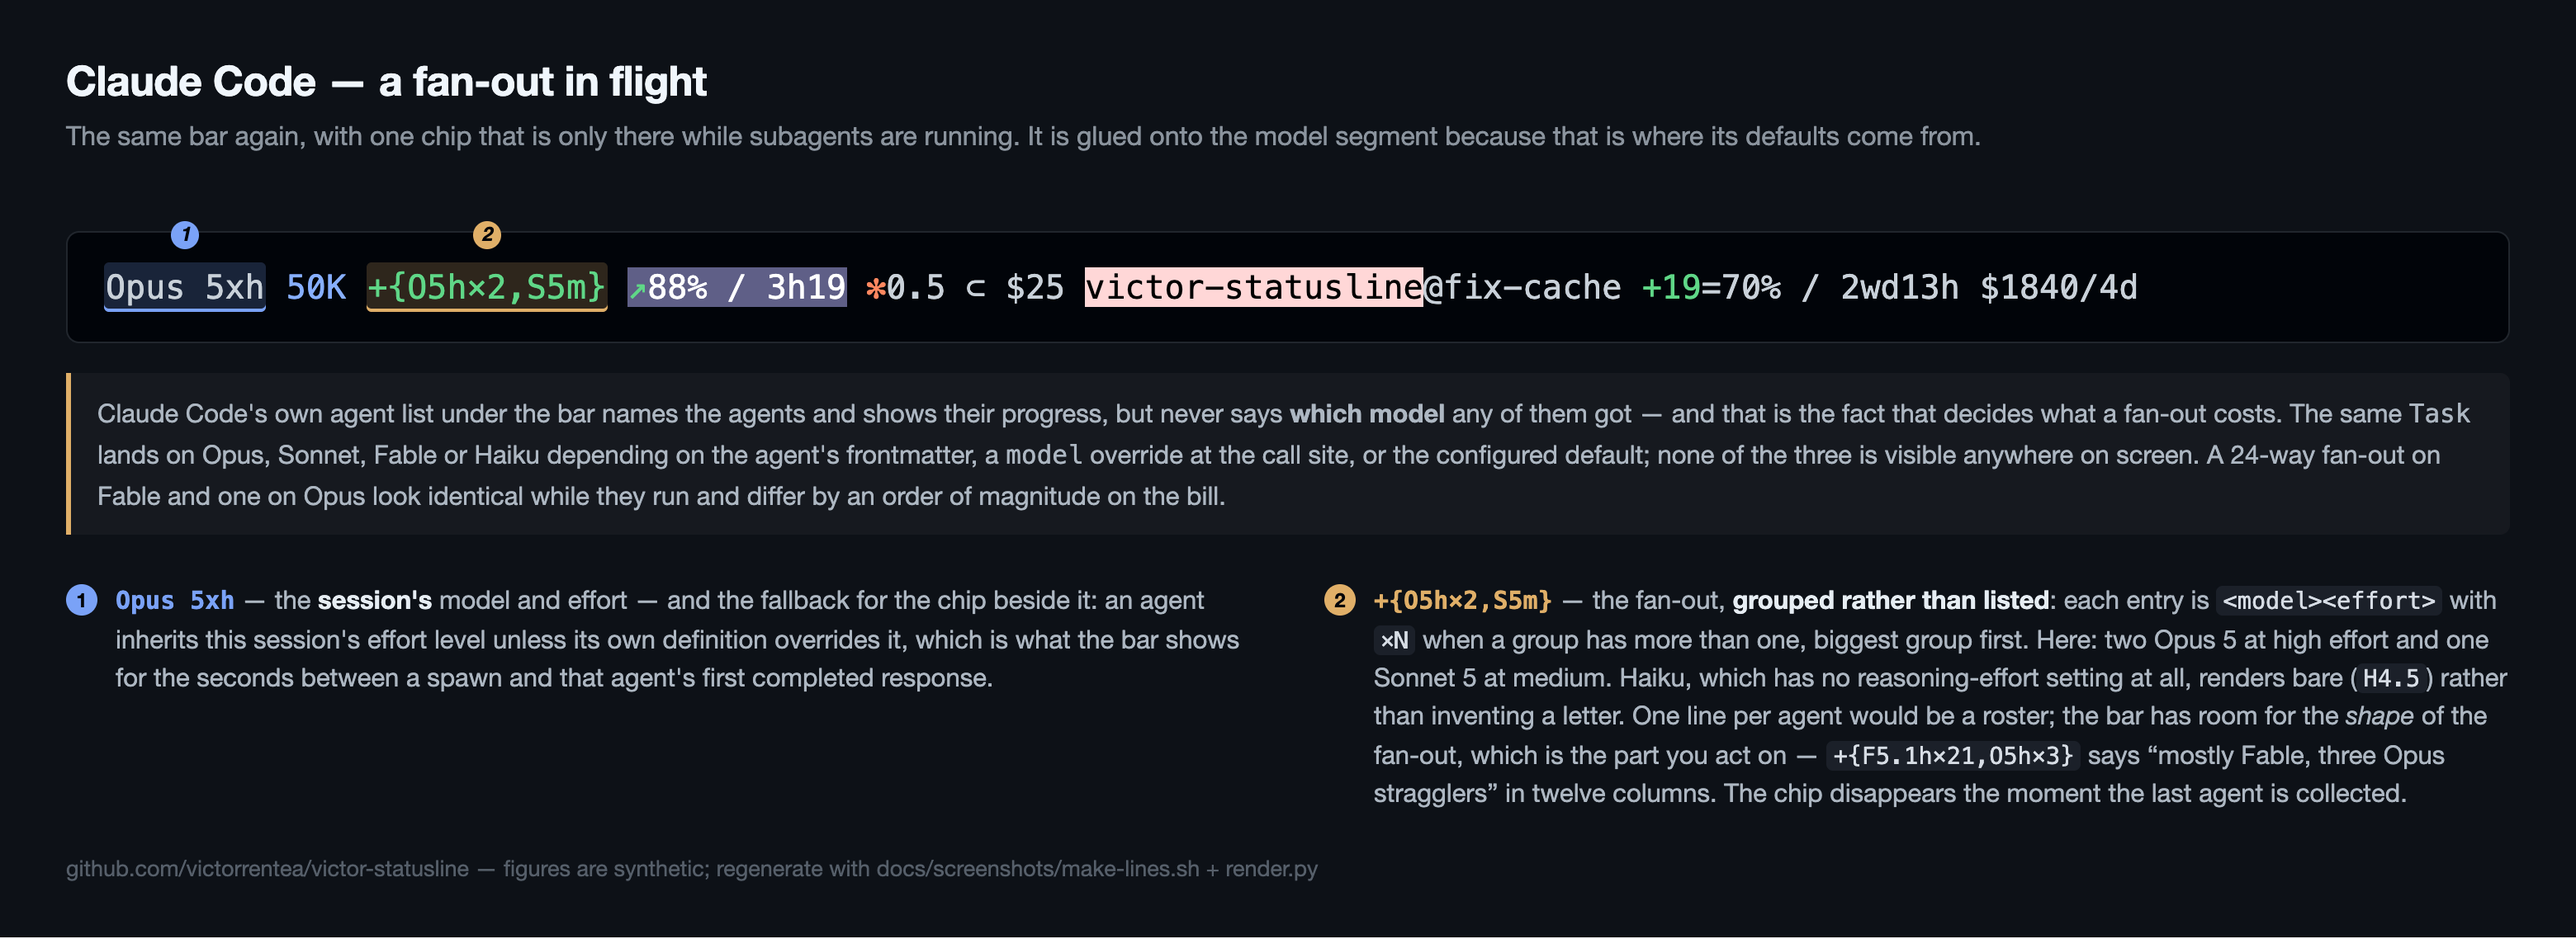
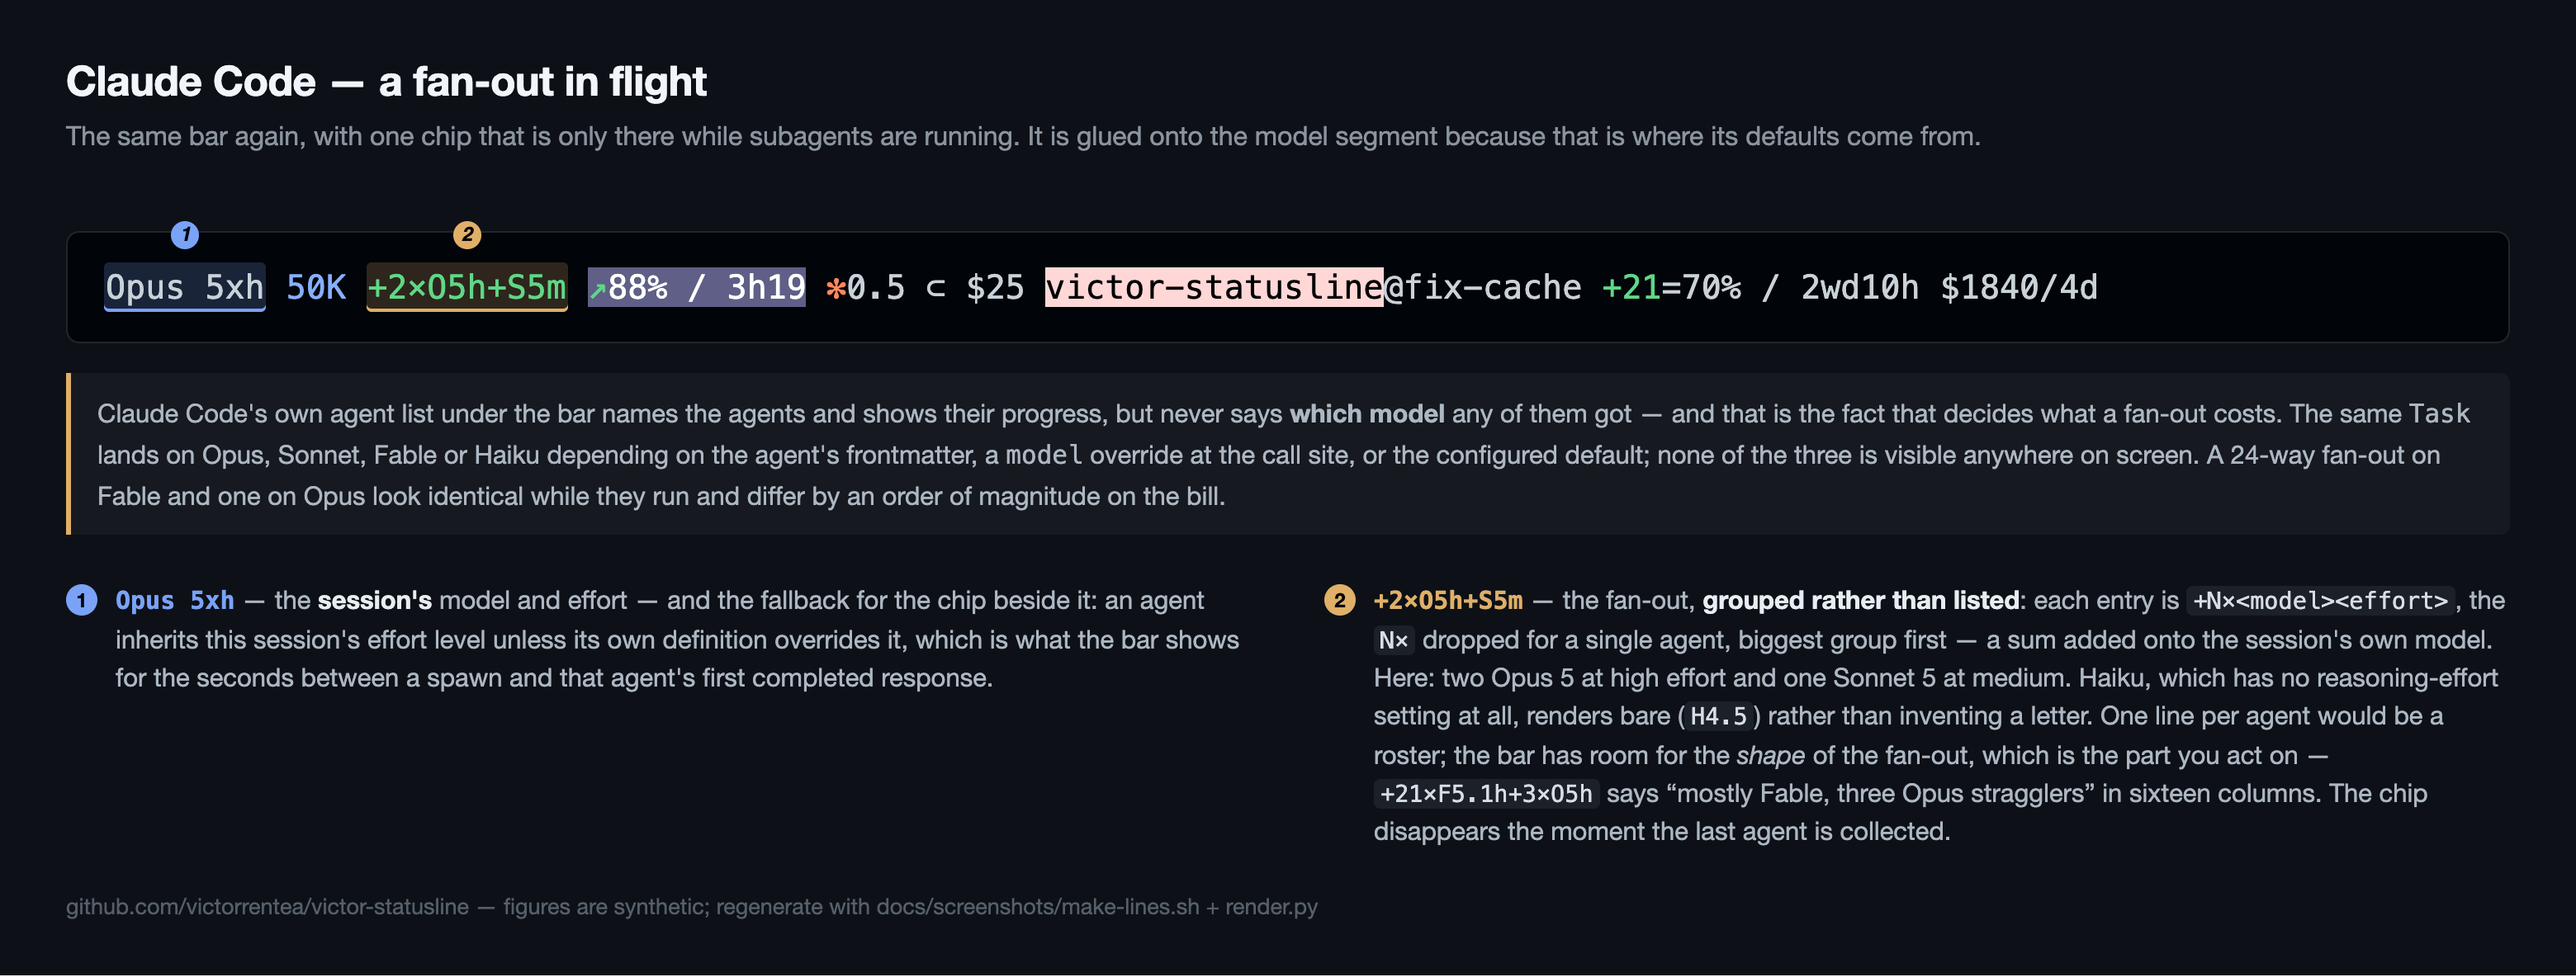
Subagent chip: +2×O5h+S5m instead of +{O5h×2,S5m}
Drop the braces, put the count in front as a coefficient, and join groups
with a plain + so the chip reads as a sum added onto the session's model.
Doc, screenshot regex and pictures updated to match.

diff --git a/docs/screenshots/render.py b/docs/screenshots/render.py
@@ -218,16 +218,16 @@ SPECS = [
              "beside it: an agent inherits this session's effort level unless its own "
              "definition overrides it, which is what the bar shows for the seconds "
              "between a spawn and that agent's first completed response."),
-            (r"\+\{[^}]*\}", "spend",
+            (r"(?:\+(?:\d+×)?[A-Z][\d.]*[a-z]*)+(?= )", "spend",
              "the fan-out, <b>grouped rather than listed</b>: each entry is "
-             "<code>&lt;model&gt;&lt;effort&gt;</code> with <code>×N</code> when a group "
-             "has more than one, biggest group first. Here: two Opus 5 at high effort "
+             "<code>+N×&lt;model&gt;&lt;effort&gt;</code>, the <code>N×</code> dropped for a "
+             "single agent, biggest group first — a sum added onto the session's own model. Here: two Opus 5 at high effort "
              "and one Sonnet 5 at medium. Haiku, which has no reasoning-effort setting "
              "at all, renders bare (<code>H4.5</code>) rather than inventing a letter. "
              "One line per agent would be a roster; the bar has room for the "
              "<i>shape</i> of the fan-out, which is the part you act on — "
-             "<code>+{F5.1h×21,O5h×3}</code> says “mostly Fable, three Opus stragglers” "
-             "in twelve columns. The chip disappears the moment the last agent is "
+             "<code>+21×F5.1h+3×O5h</code> says “mostly Fable, three Opus stragglers” "
+             "in sixteen columns. The chip disappears the moment the last agent is "
              "collected."),
         ],
     ),

diff --git a/claude/victor-claude-statusline.md b/claude/victor-claude-statusline.md
@@ -304,16 +304,21 @@ parameter expansion, not `sed`: `$ctx_render` is full of ESC and `&` bytes that
 
 ---
 
-## 1.2 Subagents in flight — `+{O5h×2,S5m}`
+## 1.2 Subagents in flight — `+2×O5h+S5m`
 
 Glued onto the model segment while subagents are running, and absent otherwise:
 
 ```
-Opus 5h 60K +{O5h×2,S5m} | ↓48% / 4h44 | $0.3 -2m ⊂ $1.1 | victor-statusline | -1=-1% / 0m
+Opus 5h 60K +2×O5h+S5m | ↓48% / 4h44 | $0.3 -2m ⊂ $1.1 | victor-statusline | -1=-1% / 0m
 ```
 
-Two Opus-5 agents at high effort plus one Sonnet-5 at medium. Each entry is
-`<model><effort>`, `×N` when a group has more than one, biggest group first.
+Two Opus-5 agents at high effort plus one Sonnet-5 at medium. Each group is
+`+N×<model><effort>`, the `N×` dropped when the group is a single agent, biggest
+group first. It reads as a sum added onto the session's own model — no braces,
+the count in front like a coefficient, a plain `+` between groups — because that
+is what it is: the extra brains working on top of this one. (It used to be
+`+{O5h×2,S5m}`, which put the count after the model where the eye reaches it
+last, and spent two columns on braces that said nothing.)
 
 **Why it exists.** Claude Code's own agent list under the bar names the agents
 and shows their progress, but never says which model any of them got — and that
@@ -325,8 +330,8 @@ A 24-way fan-out on Fable and a 24-way fan-out on Opus look identical while they
 run and differ by an order of magnitude on the bill.
 
 **Grouped, not listed.** One line per agent is a roster; the bar has room for
-the *shape* of the fan-out, which is what you actually act on. `+{F5.1h×21,O5h×3}`
-says "the bulk of this is Fable, with three Opus stragglers" in twelve columns.
+the *shape* of the fan-out, which is what you actually act on. `+21×F5.1h+3×O5h`
+says "the bulk of this is Fable, with three Opus stragglers" in sixteen columns.
 
 **Where the data comes from.** Files Claude Code already writes, under
 `<transcript-dir>/<session-id>/subagents/`:
@@ -345,7 +350,7 @@ to *this* session's level, because that is what an agent inherits unless its own
 definition overrides it.
 
 A model with no reasoning-effort setting at all — Haiku — writes no `effort`
-field, and renders bare: `+{H4.5×2,S5h}` is two Haiku 4.5 agents and one
+field, and renders bare: `+2×H4.5+S5h` is two Haiku 4.5 agents and one
 Sonnet 5 at high. This was found by running the thing: requiring `effort`
 alongside `model` when reading an agent's transcript meant every Haiku agent
 failed to resolve, was never cached, and fell back to the alias — rendering as
@@ -411,7 +416,7 @@ a child agent re-invokes it when it finishes, exactly as they re-invoke the
 main session. Seen on 20 Sep 2026: a nested agent notified *completed* at
 18:53, was woken by its own background screenshot sweep thirty seconds later,
 and worked ten more minutes to a second *completed* — while the chip read
-`+{F5.1m}` for the parent alone and Claude Code's list under the bar showed
+`+F5.1m` for the parent alone and Claude Code's list under the bar showed
 two agents. The previous design remembered a marker as permanent and looked
 for a `SendMessage` to undo it; a wake with no `SendMessage` had no witness at
 all. (The 13 Sep 2026 incident — one agent resumed seven times over three
@@ -1868,7 +1873,7 @@ To reproduce this exact status line: save the script below to `~/.claude/statusl
 ```sh
 #!/bin/sh
 # Claude Code status line:
-#   "Model/e (ctx% of SIZE) [+{subagents}] | 5h% / reset | spend folder[@branch] 7d quota $week/Nd"
+#   "Model/e (ctx% of SIZE) [+N×agents+…] | 5h% / reset | spend folder[@branch] 7d quota $week/Nd"
 #
 # Ordered by how fast each figure moves: the model line is fixed, the 5h window
 # and the spend change within a turn, the folder changes when you cd, and the
@@ -3668,9 +3673,11 @@ if [ -n "$week_reset" ] && [ "$week_reset" -gt 604800 ] 2>/dev/null; then
   unset _ws_file _ws_key _ws_start _ws_date _ws_usd _ws_days
 fi
 
-# --- Subagents in flight: "+{O5h×2,S5m}" glued onto the model segment -------
+# --- Subagents in flight: "+2×O5h+S5m" glued onto the model segment --------
 # WHAT IT SAYS: how many subagents are working right now, on which brain, at
-# which effort — "+{O5h×2,S5m}" is two Opus-5-high agents plus one Sonnet-5-medium.
+# which effort — "+2×O5h+S5m" is two Opus-5-high agents plus one Sonnet-5-medium,
+# written as a sum added onto the session's own model: no braces, the count as a
+# coefficient in front, a plain "+" between groups.
 # Claude Code's own agent list under the bar names the agents but never the model
 # they got, and that is the fact which decides what a fan-out costs and how good
 # its answers will be: the same Task lands on Opus, Sonnet, Fable or Haiku
@@ -4006,8 +4013,8 @@ $_new"
           ord[j + 1] = k
         }
         s = ""
-        for (i = 1; i <= n; i++) s = s (s == "" ? "" : ",") ord[i] (c[ord[i]] > 1 ? "×" c[ord[i]] : "")
-        printf "+{%s}", s
+        for (i = 1; i <= n; i++) s = s "+" (c[ord[i]] > 1 ? c[ord[i]] "×" : "") ord[i]
+        printf "%s", s
       }')
     [ -n "$sub_chip" ] && sub_render=" ${GREEN}${sub_chip}${RESET}"
   fi
